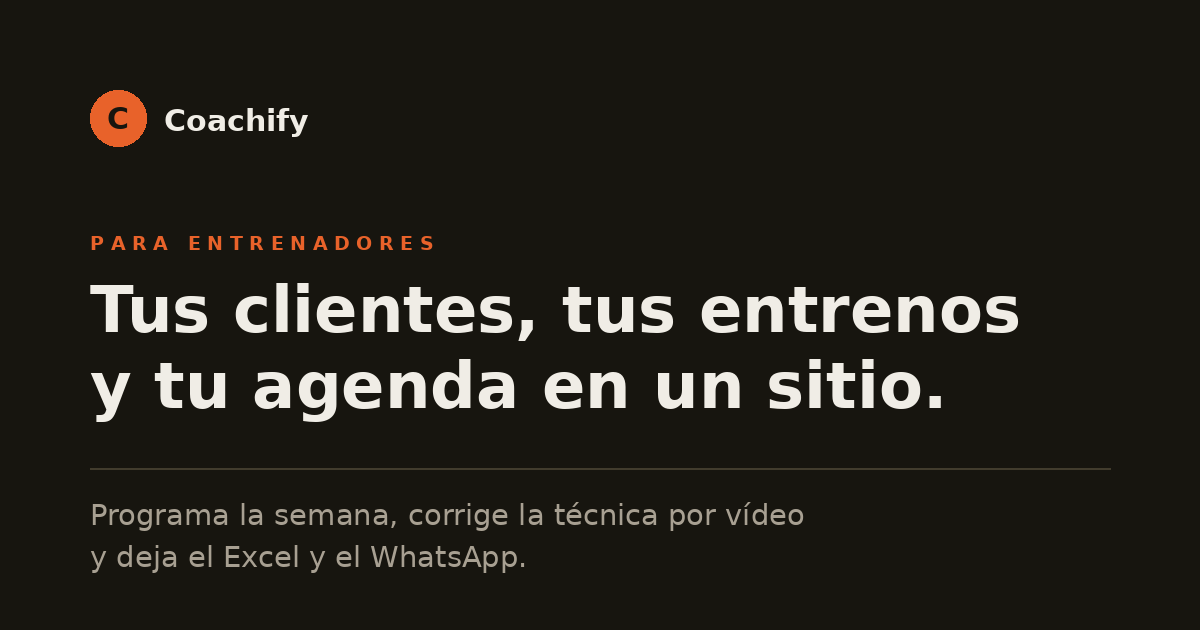
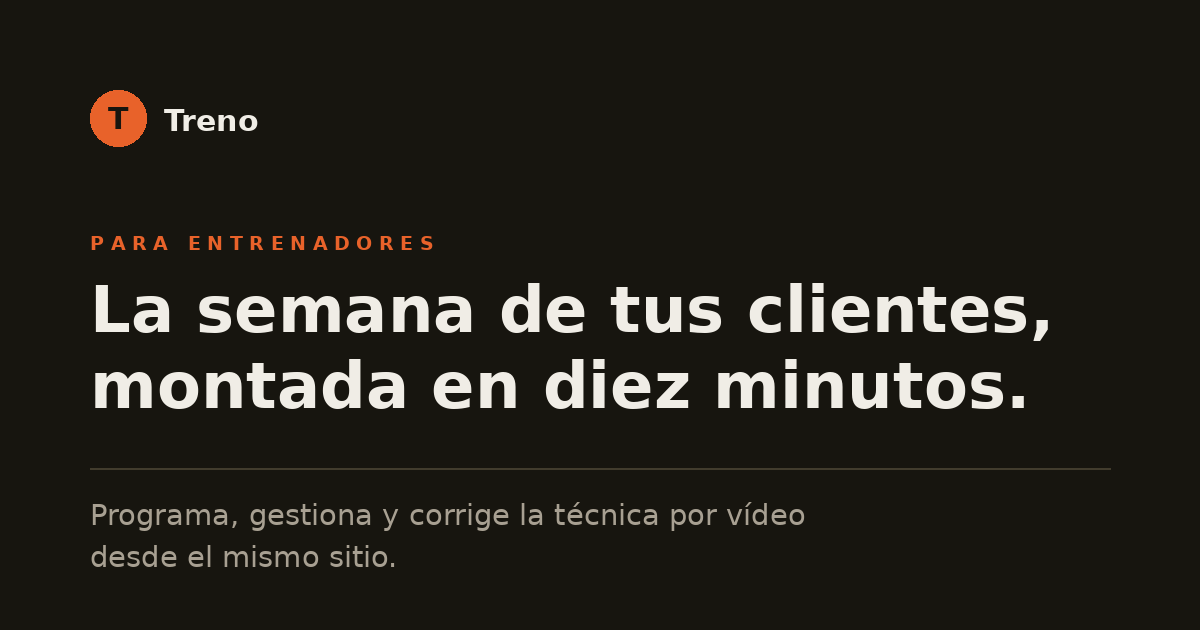
chore: Coachify pasa a llamarse Treno
97 apariciones en 47 archivos: titulos, cabeceras, textos legales, package.json,
robots.txt, correos de contacto y los documentos de decision. Mas las nueve
iniciales del logotipo, el favicon y la imagen de previsualizacion.

Dos trampas encontradas al revisar el script antes de ejecutarlo:

1. 'coachify_demo' es la marca que llevan en su metadata los usuarios demo YA
   creados en auth.users. Renombrarla habria dejado a --limpiar sin reconocer
   a los once, y a ti borrandolos a mano desde Supabase. Ahora hay una lista
   de cadenas protegidas que se apartan con un centinela antes de sustituir.
   Verificado: seed-demo.mjs no aparece entre los archivos tocados.

2. El script solo miraba src y static, asi que se habrian quedado fuera los
   ADR, DISENO.md, LECCIONES.md y los propios scripts. Ahora recorre tambien
   scripts y supabase, y recoge los documentos de la raiz automaticamente para
   que los que se escriban en el futuro entren sin actualizar ninguna lista.

El dominio treno.app es provisional: cambiarlo es volver a ejecutar el script
con otro. Pendiente a mano: renombrar carpeta y repositorio, y el dominio y las
variables en Vercel.

diff --git a/src/routes/+page.svelte b/src/routes/+page.svelte
@@ -1,5 +1,5 @@
 <script lang="ts">
-  // Landing pública de Coachify.
+  // Landing pública de Treno.
   //
   // DIRECCIÓN (ver DISENO.md): la landing habla el idioma de la herramienta,
   // no el de las landings. Filas densas, líneas finas y números grandes: lo
@@ -24,15 +24,15 @@
         {
           '@type': 'Organization',
           '@id': page.url.origin + '/#organizacion',
-          name: 'Coachify',
+          name: 'Treno',
           url: page.url.origin,
           logo: page.url.origin + '/favicon.svg',
-          email: 'hola@coachify.app',
+          email: 'hola@treno.app',
           areaServed: 'ES'
         },
         {
           '@type': 'SoftwareApplication',
-          name: 'Coachify',
+          name: 'Treno',
           applicationCategory: 'HealthApplication',
           operatingSystem: 'Web',
           inLanguage: 'es-ES',
@@ -92,9 +92,9 @@
   <div class="container-narrow flex items-center justify-between py-3.5">
     <a href="/" class="flex items-center gap-2.5">
       <div class="w-7 h-7 rounded-md bg-accent grid place-items-center text-bg font-bold text-sm">
-        C
+        T
       </div>
-      <span class="font-semibold tracking-tight">Coachify</span>
+      <span class="font-semibold tracking-tight">Treno</span>
     </a>
 
     <nav class="flex items-center gap-5 sm:gap-7 text-sm">
@@ -381,15 +381,15 @@
   <div class="container-narrow flex flex-col sm:flex-row items-center justify-between gap-6">
     <div class="flex items-center gap-2">
       <div class="w-6 h-6 rounded-md bg-accent grid place-items-center text-bg font-bold text-2xs">
-        C
+        T
       </div>
-      <span>© {new Date().getFullYear()} Coachify</span>
+      <span>© {new Date().getFullYear()} Treno</span>
     </div>
     <nav class="flex flex-wrap items-center justify-center gap-x-6 gap-y-2">
       <a href="/legal/terminos" class="hover:text-text transition-colors">Términos</a>
       <a href="/legal/privacidad" class="hover:text-text transition-colors">Privacidad</a>
       <a href="/legal/cookies" class="hover:text-text transition-colors">Cookies</a>
-      <a href="mailto:hola@coachify.app" class="hover:text-text transition-colors">Contacto</a>
+      <a href="mailto:hola@treno.app" class="hover:text-text transition-colors">Contacto</a>
     </nav>
   </div>
 </footer>

diff --git a/src/routes/legal/privacidad/+page.svelte b/src/routes/legal/privacidad/+page.svelte
@@ -1,5 +1,5 @@
 <svelte:head>
-  <title>Privacidad · Coachify</title>
+  <title>Privacidad · Treno</title>
 </svelte:head>
 
 <div class="container-text py-20">
@@ -22,7 +22,7 @@
     <p>
       [NOMBRE FISCAL] · [NIF] · [DOMICILIO].<br />
       Contacto:
-      <a href="mailto:hola@coachify.app" class="text-primary hover:underline">hola@coachify.app</a>.
+      <a href="mailto:hola@treno.app" class="text-primary hover:underline">hola@treno.app</a>.
     </p>
 
     <h2 class="text-2xl font-semibold text-text">2. Datos que tratamos</h2>
@@ -51,7 +51,7 @@
     <ul class="list-disc pl-6 space-y-2">
       <li>
         <strong class="text-text">Base legal:</strong> tu <em>consentimiento explícito</em>, que se
-        te solicita antes de tu primer envío. Es voluntario: puedes usar Coachify sin subir ningún
+        te solicita antes de tu primer envío. Es voluntario: puedes usar Treno sin subir ningún
         vídeo.
       </li>
       <li>
@@ -110,7 +110,7 @@
 
     <h2 class="text-2xl font-semibold text-text">8. Menores</h2>
     <p>
-      Coachify no está dirigido a menores de 18 años. No se permite crear cuentas ni enviar vídeos a
+      Treno no está dirigido a menores de 18 años. No se permite crear cuentas ni enviar vídeos a
       menores sin el consentimiento verificable de su padre, madre o tutor legal.
     </p>
 
@@ -118,7 +118,7 @@
     <p>
       Puedes ejercer los derechos de acceso, rectificación, supresión, oposición, limitación y
       portabilidad, así como retirar tu consentimiento en cualquier momento, escribiendo a
-      <a href="mailto:hola@coachify.app" class="text-primary hover:underline">hola@coachify.app</a>.
+      <a href="mailto:hola@treno.app" class="text-primary hover:underline">hola@treno.app</a>.
       También puedes reclamar ante la Agencia Española de Protección de Datos (<a
         href="https://www.aepd.es"
         target="_blank"

diff --git a/src/routes/legal/terminos/+page.svelte b/src/routes/legal/terminos/+page.svelte
@@ -1,5 +1,5 @@
 <svelte:head>
-  <title>Términos · Coachify</title>
+  <title>Términos · Treno</title>
 </svelte:head>
 
 <div class="container-text py-20">
@@ -19,11 +19,11 @@
     </p>
 
     <h2 class="text-2xl font-semibold text-text">1. Aceptación</h2>
-    <p>Al usar Coachify aceptas estos términos. Si no estás de acuerdo, no uses el servicio.</p>
+    <p>Al usar Treno aceptas estos términos. Si no estás de acuerdo, no uses el servicio.</p>
 
     <h2 class="text-2xl font-semibold text-text">2. Servicio</h2>
     <p>
-      Coachify es una herramienta SaaS para entrenadores personales. Nos esforzamos por mantener el
+      Treno es una herramienta SaaS para entrenadores personales. Nos esforzamos por mantener el
       servicio disponible pero no garantizamos uptime del 100%.
     </p>
 
@@ -32,8 +32,8 @@
 
     <h2 class="text-2xl font-semibold text-text">4. Contenido</h2>
     <p>
-      Los vídeos, rutinas y datos que subes a Coachify son de tu propiedad. No los usaremos para
-      nada que no sea prestarte el servicio.
+      Los vídeos, rutinas y datos que subes a Treno son de tu propiedad. No los usaremos para nada
+      que no sea prestarte el servicio.
     </p>
 
     <h2 class="text-2xl font-semibold text-text">5. Pagos</h2>
@@ -44,9 +44,8 @@
 
     <h2 class="text-2xl font-semibold text-text">6. Contacto</h2>
     <p>
-      Para cualquier consulta: <a
-        href="mailto:hola@coachify.app"
-        class="text-primary hover:underline">hola@coachify.app</a
+      Para cualquier consulta: <a href="mailto:hola@treno.app" class="text-primary hover:underline"
+        >hola@treno.app</a
       >
     </p>
   </div>

diff --git a/src/routes/+layout.svelte b/src/routes/+layout.svelte
@@ -6,9 +6,9 @@
 
   let { data, children } = $props();
 
-  const TITULO = 'Coachify · La app de entrenamiento personal para coaches modernos';
+  const TITULO = 'Treno · La app de entrenamiento personal para coaches modernos';
   const DESCRIPCION =
-    'Coachify es la app para entrenadores personales: gestiona clientes, arma rutinas con vídeos propios y sigue el progreso. Sin Excel, sin WhatsApp, sin caos.';
+    'Treno es la app para entrenadores personales: gestiona clientes, arma rutinas con vídeos propios y sigue el progreso. Sin Excel, sin WhatsApp, sin caos.';
 
   const urlActual = $derived(page.url.origin + page.url.pathname);
   const imagenOG = $derived(page.url.origin + '/og-image.png');
@@ -34,7 +34,7 @@
        origen de la petición en vez de escribirla a mano: así funciona igual en
        local, en las previsualizaciones de Vercel y en el dominio final. -->
   <meta property="og:type" content="website" />
-  <meta property="og:site_name" content="Coachify" />
+  <meta property="og:site_name" content="Treno" />
   <meta property="og:locale" content="es_ES" />
   <meta property="og:title" content={TITULO} />
   <meta property="og:description" content={DESCRIPCION} />
@@ -44,7 +44,7 @@
   <meta property="og:image:height" content="630" />
   <meta
     property="og:image:alt"
-    content="Coachify · tus clientes, tus entrenos y tu agenda en un sitio"
+    content="Treno · tus clientes, tus entrenos y tu agenda en un sitio"
   />
 
   <meta name="twitter:card" content="summary_large_image" />

diff --git a/src/routes/legal/cookies/+page.svelte b/src/routes/legal/cookies/+page.svelte
@@ -1,8 +1,8 @@
 <svelte:head>
-  <title>Cookies · Coachify</title>
+  <title>Cookies · Treno</title>
   <meta
     name="description"
-    content="Coachify solo usa cookies estrictamente necesarias para mantener la sesión iniciada. Sin publicidad ni analítica de terceros."
+    content="Treno solo usa cookies estrictamente necesarias para mantener la sesión iniciada. Sin publicidad ni analítica de terceros."
   />
 </svelte:head>
 
@@ -24,7 +24,7 @@
 
     <h2 class="text-2xl font-semibold text-text">1. Resumen</h2>
     <p>
-      Coachify usa <strong class="text-text">únicamente cookies estrictamente necesarias</strong>
+      Treno usa <strong class="text-text">únicamente cookies estrictamente necesarias</strong>
       para que puedas iniciar sesión y seguir dentro mientras navegas. No usamos cookies de publicidad,
       ni de analítica, ni de redes sociales, ni compartimos nada con terceros con fines comerciales.
     </p>
@@ -96,8 +96,8 @@
     <h2 class="text-2xl font-semibold text-text">8. Contacto</h2>
     <p>
       Para cualquier duda sobre esta política:
-      <a href="mailto:hola@coachify.app" class="text-accent hover:underline">hola@coachify.app</a>.
-      Puedes consultar también nuestra
+      <a href="mailto:hola@treno.app" class="text-accent hover:underline">hola@treno.app</a>. Puedes
+      consultar también nuestra
       <a href="/legal/privacidad" class="text-accent hover:underline">Política de Privacidad</a>.
     </p>
   </div>

diff --git a/src/routes/recover/+page.svelte b/src/routes/recover/+page.svelte
@@ -40,7 +40,7 @@
 </script>
 
 <svelte:head>
-  <title>Recuperar contraseña · Coachify</title>
+  <title>Recuperar contraseña · Treno</title>
 </svelte:head>
 
 <div class="min-h-screen flex items-center justify-center p-6">
@@ -50,7 +50,7 @@
         class="w-14 h-14 mx-auto mb-6 rounded-xl bg-accent
                grid place-items-center text-white font-display font-bold text-2xl"
       >
-        C
+        T
       </div>
       <h1 class="text-3xl font-display font-semibold mb-2">Recuperar contraseña</h1>
       <p class="text-text-mute">Te enviamos un email con un enlace para definir una nueva.</p>
@@ -61,7 +61,7 @@
         <div class="text-4xl">📬</div>
         <h2 class="text-xl font-semibold">Email enviado</h2>
         <p class="text-sm text-text-mute">
-          Si <strong class="text-text">{email}</strong> tiene una cuenta en Coachify, te llegará un email
+          Si <strong class="text-text">{email}</strong> tiene una cuenta en Treno, te llegará un email
           con un enlace para restablecer tu contraseña.
         </p>
         <p class="text-xs text-text-mute">

diff --git a/src/routes/set-password/+page.svelte b/src/routes/set-password/+page.svelte
@@ -22,7 +22,7 @@
   const subtitle = $derived(
     isRecovery
       ? 'Define una contraseña nueva para tu cuenta.'
-      : 'Define una contraseña para entrar a Coachify cada vez que quieras.'
+      : 'Define una contraseña para entrar a Treno cada vez que quieras.'
   );
   const submitLabel = $derived(isRecovery ? 'Guardar contraseña' : 'Definir contraseña y entrar');
 
@@ -86,7 +86,7 @@
 </script>
 
 <svelte:head>
-  <title>Define tu contraseña · Coachify</title>
+  <title>Define tu contraseña · Treno</title>
 </svelte:head>
 
 <div class="min-h-screen flex items-center justify-center p-6">
@@ -96,7 +96,7 @@
         class="w-14 h-14 mx-auto mb-6 rounded-xl bg-accent
                grid place-items-center text-white font-display font-bold text-2xl"
       >
-        C
+        T
       </div>
       <h1 class="text-3xl font-display font-semibold mb-2">{title}</h1>
       <p class="text-text-mute">{subtitle}</p>

diff --git a/src/routes/login/+page.svelte b/src/routes/login/+page.svelte
@@ -65,7 +65,7 @@
 </script>
 
 <svelte:head>
-  <title>Entrar · Coachify</title>
+  <title>Entrar · Treno</title>
 </svelte:head>
 
 <div class="min-h-screen flex items-center justify-center p-6">
@@ -75,10 +75,10 @@
         class="w-14 h-14 mx-auto mb-6 rounded-xl bg-accent
                grid place-items-center text-white font-display font-bold text-2xl"
       >
-        C
+        T
       </div>
       <h1 class="text-3xl font-display font-semibold mb-2">Bienvenido de nuevo</h1>
-      <p class="text-text-mute">Entra a tu cuenta de Coachify</p>
+      <p class="text-text-mute">Entra a tu cuenta de Treno</p>
     </div>
 
     <form onsubmit={handleSubmit} class="card space-y-5">

diff --git a/src/routes/register/+page.svelte b/src/routes/register/+page.svelte
@@ -57,7 +57,7 @@
 </script>
 
 <svelte:head>
-  <title>Crear cuenta · Coachify</title>
+  <title>Crear cuenta · Treno</title>
 </svelte:head>
 
 <div class="min-h-screen flex items-center justify-center p-6">
@@ -67,7 +67,7 @@
         class="w-14 h-14 mx-auto mb-6 rounded-xl bg-accent
                grid place-items-center text-white font-display font-bold text-2xl"
       >
-        C
+        T
       </div>
       <h1 class="text-3xl font-display font-semibold mb-2">Empieza gratis</h1>
       <p class="text-text-mute">14 días Pro de regalo. Sin tarjeta.</p>

diff --git a/src/app.css b/src/app.css
@@ -5,7 +5,7 @@
 /* =============================================================================
    PALETA · el único sitio donde viven los colores
    =============================================================================
-   Paleta Coachify — "Grafito cálido". Fondo casi negro CON TEMPERATURA (tiene
+   Paleta Treno — "Grafito cálido". Fondo casi negro CON TEMPERATURA (tiene
    marrón dentro, no azul) y un acento naranja quemado.
 
    El matiz de la temperatura no es capricho: el casi-negro azulado con acento

diff --git a/src/routes/auth/callback/+page.svelte b/src/routes/auth/callback/+page.svelte
@@ -110,7 +110,7 @@
 </script>
 
 <svelte:head>
-  <title>Procesando · Coachify</title>
+  <title>Procesando · Treno</title>
 </svelte:head>
 
 <div class="min-h-screen flex items-center justify-center p-6">
@@ -118,7 +118,7 @@
     <div
       class="w-16 h-16 mx-auto rounded-xl bg-accent grid place-items-center text-white font-display font-bold text-2xl animate-pulse"
     >
-      C
+      T
     </div>
     <p class="text-text-mute">{status}</p>
     <div class="flex justify-center gap-1.5">

diff --git a/src/routes/(coach)/+layout.svelte b/src/routes/(coach)/+layout.svelte
@@ -42,9 +42,9 @@
         <div
           class="w-7 h-7 rounded-md bg-accent grid place-items-center text-white font-display font-bold text-sm"
         >
-          C
+          T
         </div>
-        <span class="font-display font-semibold tracking-tight text-lg">Coachify</span>
+        <span class="font-display font-semibold tracking-tight text-lg">Treno</span>
       </a>
 
       <div class="flex items-center gap-4 sm:gap-6 text-sm">
